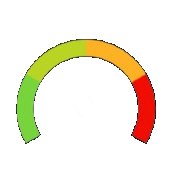
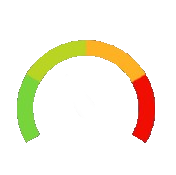
rotating needle

diff --git a/Game.py b/Game.py
@@ -39,10 +39,12 @@ class Game:
         self.white = (255, 255, 255)
         self.grey = (50.2, 50.2, 50.2)
 
+        # angle
+        self.angle = 0
+
         self.running = True
 
     def run(self):
-
         # main loop
         while self.running:
             mouseX, mouseY = pygame.mouse.get_pos()
@@ -95,8 +97,13 @@ class Game:
             self.screen.blit(meter, (self.width//2 - 75, self.height//4.5))
 
             needle = pygame.image.load("Resources/needle.png")
-            needle = pygame.transform.scale(needle, (150, 150))
-            self.screen.blit(needle, (self.width//2 - 75, self.height//4.5))
+            needle = pygame.transform.scale(needle, (83, 83))
+            original_rect = needle.get_rect()
+            needle = pygame.transform.rotate(needle, self.angle)
+            rotated_rect = original_rect.copy()
+            rotated_rect.center = needle.get_rect().center
+            needle = needle.subsurface(rotated_rect).copy()
+            self.screen.blit(needle, (self.width//2-42, self.height//4+28))
 
             # Draw the menu button
             self.menubutton.draw(self.screen)
@@ -104,3 +111,4 @@ class Game:
 
             pygame.display.update()
             self.clock.tick(60)
+            self.angle-= 1
